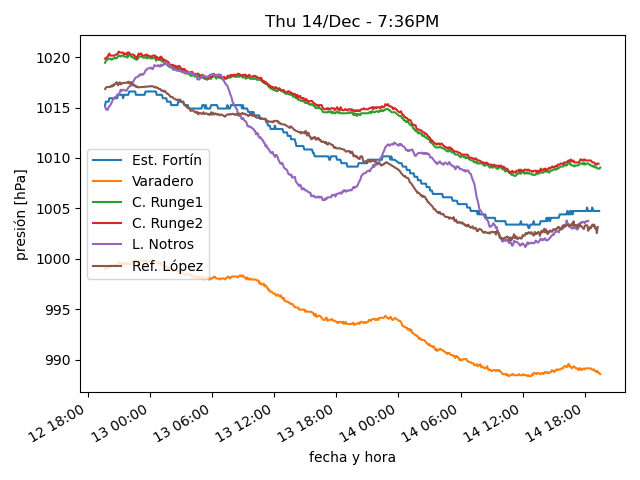
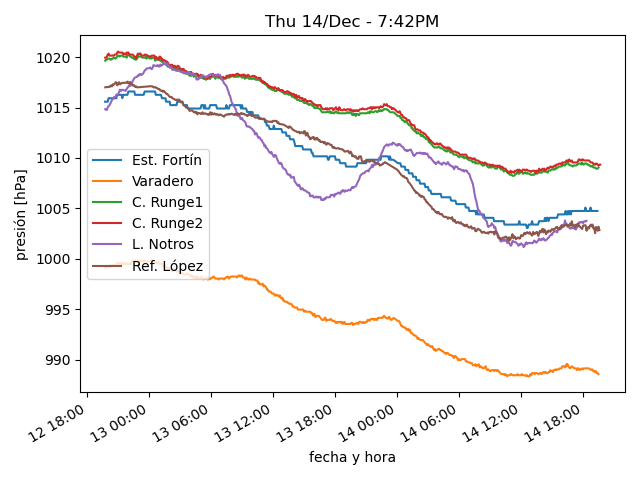
actualiza datos

diff --git a/estaciones/estacion4.html b/estaciones/estacion4.html
@@ -18,12 +18,12 @@
     </tr>
     <tr>
      <td class="stats_data">
-      7:19PM
+      7:39PM
      </td>
     </tr>
     <tr>
      <td class="stats_data">
-      12.1
+      11.2
      </td>
     </tr>
     <tr>
@@ -33,17 +33,17 @@
     </tr>
     <tr>
      <td class="stats_data">
-      52.6
+      55.7
      </td>
     </tr>
     <tr>
      <td class="stats_data">
-      1006.43
+      1006.33
      </td>
     </tr>
     <tr>
      <td class="stats_data">
-      5.3/8.1 SSW
+      3.9/5.6 WSW
      </td>
     </tr>
     <tr>
@@ -53,12 +53,12 @@
     </tr>
     <tr>
      <td class="stats_data">
-      1.0
+      0.0
      </td>
     </tr>
     <tr>
      <td class="stats_data">
-      128.6
+      31.6
      </td>
     </tr>
    </tbody>

diff --git a/estaciones/estacion6.html b/estaciones/estacion6.html
@@ -18,32 +18,32 @@
     </tr>
     <tr>
      <td class="stats_data">
-      7:15PM
+      7:35PM
      </td>
     </tr>
     <tr>
      <td class="stats_data">
-      4.5
+      4.6
      </td>
     </tr>
     <tr>
      <td class="stats_data">
-      0.1
+      -0.6
      </td>
     </tr>
     <tr>
      <td class="stats_data">
-      73.0
+      69.0
      </td>
     </tr>
     <tr>
      <td class="stats_data">
-      1004.54
+      1004.23
      </td>
     </tr>
     <tr>
      <td class="stats_data">
-      8.0/20.9 N
+      11.3/41.8 NE
      </td>
     </tr>
     <tr>
@@ -58,7 +58,7 @@
     </tr>
     <tr>
      <td class="stats_data">
-      899.0
+      900.0
      </td>
     </tr>
    </tbody>
